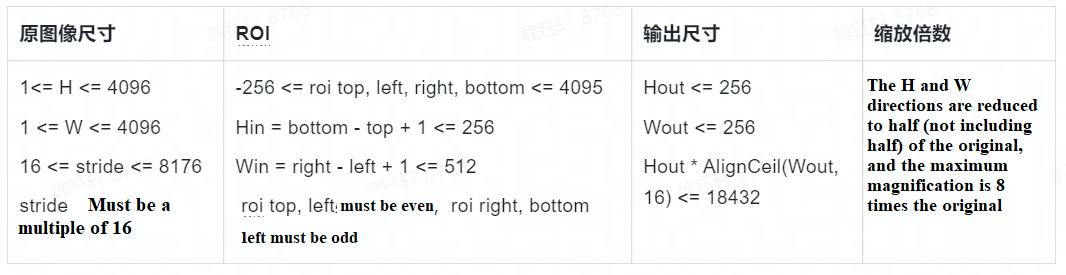
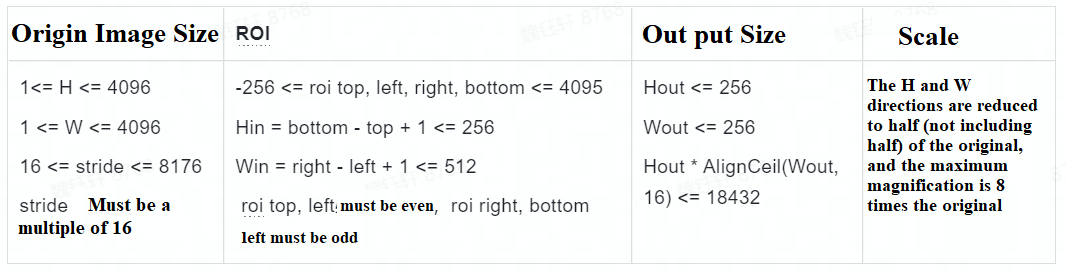
update static img

Changed region(s): [[0.0, 0.0873, 0.2167, 0.1745], [0.5882, 0.0873, 0.743, 0.1745], [0.8049, 0.0873, 0.8977, 0.1745]]

diff --git a/docs/multimedia_development/system_control.md b/docs/multimedia_development/system_control.md
@@ -293,7 +293,7 @@ int HB_VP_Init(void);
 |    Non-zero  |   Failure   |
 
 【Note】
-> It is necessary to call HB_VP_SetConfig to configure the cache pool properties before initializing the cache pool, otherwise it will fail.【参考代码】
+> It is necessary to call HB_VP_SetConfig to configure the cache pool properties before initializing the cache pool, otherwise it will fail.【Reference code】
 > Reference code for VideoPool
 
 ### HB_VP_Exit
@@ -317,7 +317,7 @@ int HB_VP_Exit(void);
 【Notes】
 > None
 
-【参考代码】
+【Reference code】
 > Reference code for VideoPool
 
 ### HB_VP_CreatePool
@@ -341,7 +341,7 @@ uint32_t HB_VP_CreatePool(VP_POOL_CONFIG_S *VpPoolCfg);
 | Non-VP_INVALID_POOLID | Valid pool ID number |
 |  VP_INVALID_POOLID  |  Failed to create pool  |
 
-【Notes】【参考代码】
+【Notes】【Reference code】
 > Reference code for VideoPool
 
 ### HB_VP_DestroyPool
@@ -368,7 +368,7 @@ int HB_VP_DestroyPool(uint32_t Pool);
 【Note】
 > N/A
 
-【参考代码】
+【Reference code】
 > Reference code for VideoPool
 
 ### HB_VP_GetBlock
@@ -445,21 +445,21 @@ uint32_t HB_VP_PhysAddr2Block(uint64_t u64PhyAddr);
 |      0       |   Success   |
 |     Non-zero      |   Failure   |
 
-【注意事项】
+【Notes】
 > None
 
-【参考代码】
+【Reference code】
 > VideoPool reference code
 
 ### HB_VP_Block2PhysAddr
-【函数声明】
+【Function description】
 ```c
 uint64_t HB_VP_Block2PhysAddr(uint32_t Block);
 ```
-【功能描述】
+【Function description】
 > Get the physical address of a buffer block
 
-【参数描述】
+【Parameter description】
 
 | Parameter Name | Description | Input/Output |
 | :------------: | :---------: | :----------: |
@@ -472,21 +472,21 @@ uint64_t HB_VP_Block2PhysAddr(uint32_t Block);
 |      0       |   Invalid return value    |
 |   Non-zero    |    Valid physical address   |
 
-【注意事项】
+【Notes】
 > None
 
-【参考代码】
+【Reference code】
 > VideoPool reference code
 
 ### HB_VP_Block2PoolId
-【函数声明】
+【Function description】
 ```c
 uint32_t HB_VP_Block2PoolId(uint32_t Block);
 ```
-【功能描述】
+【Function description】
 > Get the buffer pool id through the buffer block id
 
-【参数描述】| Parameter Name | Description | Input/Output |
+【Parameter description】| Parameter Name | Description | Input/Output |
 | :------------: | :---------: | :----------: |
 |     Block      | Buffer block ID |    Input     |
 

diff --git a/docs/RDK.md b/docs/RDK.md
@@ -33,8 +33,6 @@ This document will provide detailed instructions on how to use the Horizon RDK S
 
 **RDK X3 Module (Sunrise X3 Module)** is a compact core module that maintains the same specifications as RDK X3 and is compatible with the Raspberry Pi CM4 module in terms of size and interface. By combining with the expansion board, it can provide efficient computing and communication capabilities for various application scenarios.
 
-**RDK Ultra** is a high-performance development kit with 96Tops edge inference power and 8-core ARM A55 processing power. It supports 4-channel MIPI Camera input, 4 USB3.0 interfaces, and 3 PCIe3.0 interfaces, fully meeting the needs of various scenarios.
-
 ![image-20230522171439846](../static/img/image-rdk-serials.jpg)
 
 

diff --git a/docs/hardware_development/rdk_x3_module/interface.md b/docs/hardware_development/rdk_x3_module/interface.md
@@ -22,7 +22,7 @@ The interface layout of the RDK X3 Module carrier board is as follows:
 
 The RDK X3 Module carrier board provides a 200-pin board-to-board connector for the installation of the core module. When installing, it is necessary to confirm the correct direction and alignment to avoid damage to the connectors of the core module and the carrier board.
 
-![image-x3-md-setup](./image/rdk_x3_module/image-x3-md-setup.png) 
+![image-x3-md-setup](./image/rdk_x3_module/image-x3-md-setup.jpg) 
 
 The module installation method is as follows:
 

diff --git a/docs/linux_development/driver_development/driver_pwm_dev.md b/docs/linux_development/driver_development/driver_pwm_dev.md
@@ -47,7 +47,7 @@ lpwm: lpwm@0xA500D000 {
     clock-names = "lpwm_mclk";
     status = "disabled";
 };
-```pwm_c0: pwm@0xA500D000 {
+    pwm_c0: pwm@0xA500D000 {
     compatible = "hobot,hobot-pwm";
     #pwm-cells = <3>;
     reg = <0 0xA500D000 0 0x1000>;
@@ -96,7 +96,7 @@ do
     echo 0 > export
     echo 1 > export
     echo 2 > export
-```cd pwm0
+    cd pwm0
         echo 10000 > period
         echo 3000  > duty_cycle
         echo 1 > enable

diff --git a/docs/linux_development/driver_development/driver_io_domain_dev.md b/docs/linux_development/driver_development/driver_io_domain_dev.md
@@ -97,7 +97,7 @@ static int hobot_xxx_probe(struct platform_device *pdev)
                 "xxx_voltage_func");
     if (IS_ERR(g_xxx_dev->pins_voltage)) {
         dev_info(&pdev->dev, "xxx_voltage_func get error %ld\n",
-```PTR_ERR(g_xxx_dev->pins_voltage));
+        PTR_ERR(g_xxx_dev->pins_voltage));
         g_xxx_dev->pins_voltage = NULL;
     }
     ...
